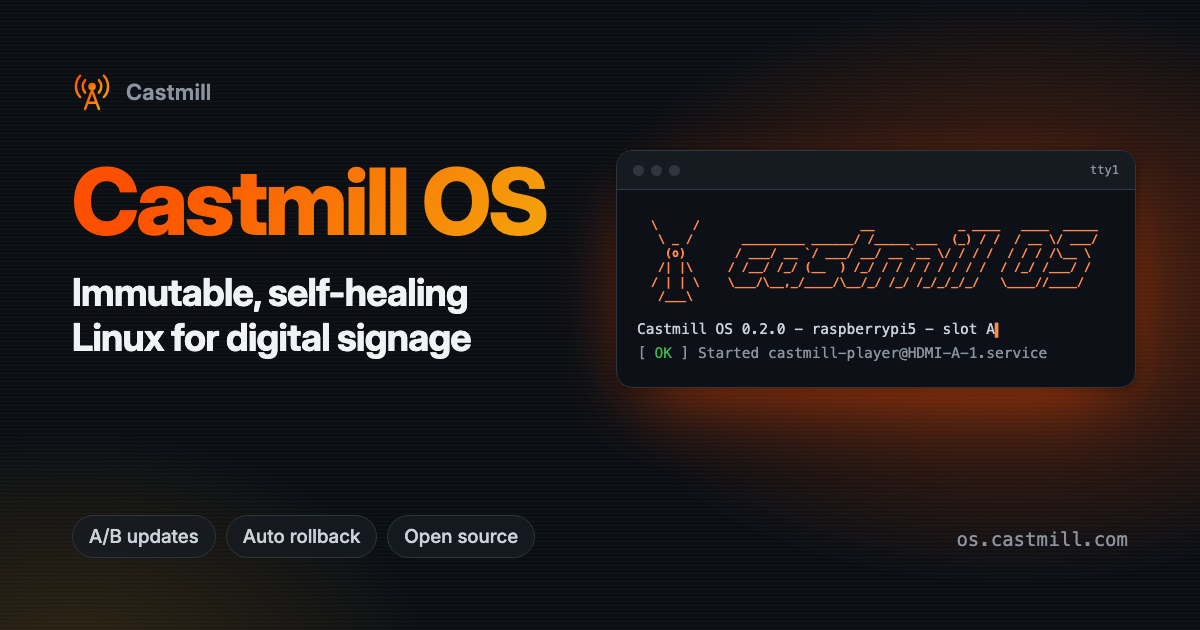
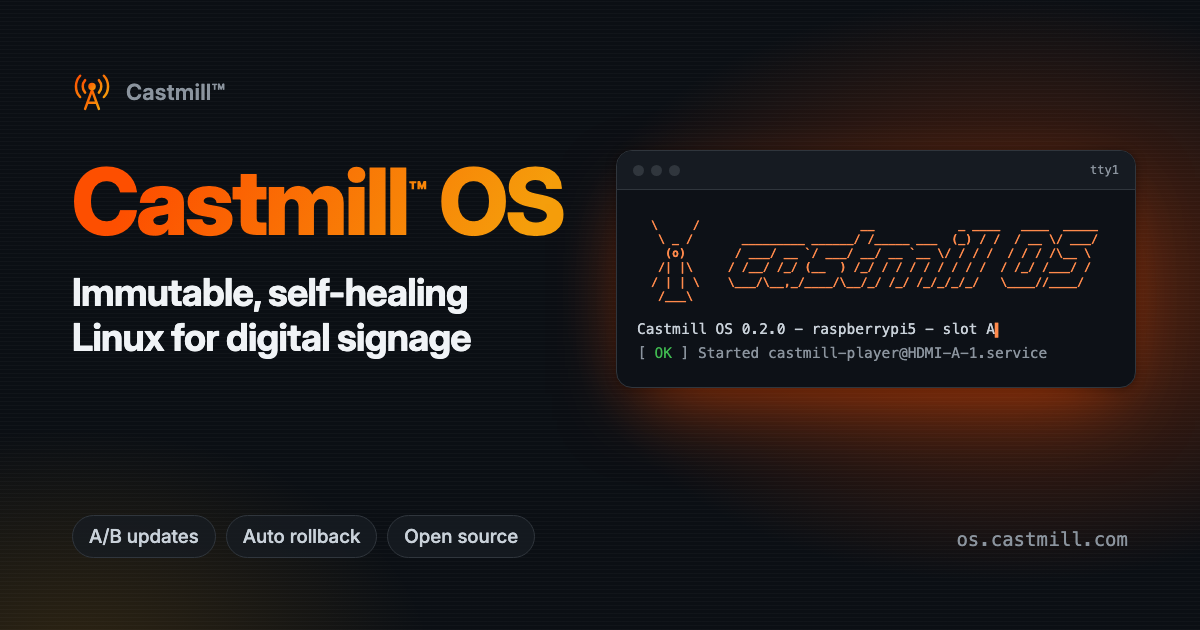
docs: mark Castmill as a trademark (™)
Castmill™ in the site title and hero, the README heading, the social
card and the device's status page, and a trademark notice in the site
footer. The ASCII console logo stays ASCII.

Changed region(s): [[0.3392, 0.2413, 0.4933, 0.3921]]

diff --git a/docs/.vitepress/social/cover.html b/docs/.vitepress/social/cover.html
@@ -121,12 +121,13 @@
   .info b { color: #ff8a4c; font-weight: 400; }
   .ok { padding: 2px 20px 26px; font-size: 14.5px; color: #8b949e; }
   .ok span { color: #3fb950; }
+  .tm { font-size: 0.32em; vertical-align: super; line-height: 0; margin-left: 0.05em; }
 </style>
 </head>
 <body>
   <div class="left">
-    <div class="brand"><img src="../../public/logo.svg" alt="">Castmill</div>
-    <h1>Castmill OS</h1>
+    <div class="brand"><img src="../../public/logo.svg" alt="">Castmill™</div>
+    <h1>Castmill<sup class="tm">™</sup> OS</h1>
     <p class="tagline">Immutable, self-healing<br>Linux for digital signage</p>
   </div>
 

diff --git a/docs/.vitepress/theme/custom.css b/docs/.vitepress/theme/custom.css
@@ -48,3 +48,12 @@ a.VPFeature:hover,
   display: block;
   overflow-x: auto;
 }
+
+/* Trademark sign after "Castmill" in large headings. */
+.tm {
+  font-size: 0.32em;
+  vertical-align: super;
+  line-height: 0;
+  margin-left: 0.04em;
+  -webkit-text-fill-color: currentColor;
+}

diff --git a/player/app/status.html b/player/app/status.html
@@ -8,7 +8,7 @@
 </head>
 <body>
 <main>
-  <div class="brand">Castmill OS</div>
+  <div class="brand">Castmill™ OS</div>
   <section id="message">
     <p id="headline" class="lead">Starting…</p>
     <p id="detail" class="detail"></p>

diff --git a/README.md b/README.md
@@ -1,4 +1,4 @@
-# Castmill OS
+# Castmill™ OS
 
 ```text
   \     /                       __            _ ____   ____  _____
@@ -181,6 +181,6 @@ Castmill OS uses permissive licenses so integrators and OEMs can adopt it easily
 - Castmill software running on the device (`agent/`, `player/`): [Apache-2.0](LICENSES/Apache-2.0.txt)
 - documentation and specifications: [CC BY 4.0](LICENSES/CC-BY-4.0.txt)
 
-Per-file licensing is declared in [`REUSE.toml`](REUSE.toml). Images also contain third-party packages under their own licenses; every release publishes the license manifest, SBOM and corresponding source. "Castmill" and the Castmill logo are trademarks and aren't covered by these licenses.
+Per-file licensing is declared in [`REUSE.toml`](REUSE.toml). Images also contain third-party packages under their own licenses; every release publishes the license manifest, SBOM and corresponding source. "Castmill™" and the Castmill logo are trademarks and aren't covered by these licenses.
 
 Contributions are welcome under the [DCO](CONTRIBUTING.md#developer-certificate-of-origin-dco); see [CONTRIBUTING.md](CONTRIBUTING.md).

diff --git a/docs/index.md b/docs/index.md
@@ -4,7 +4,7 @@ title: Castmill OS
 titleTemplate: Immutable Linux for digital signage
 
 hero:
-  name: Castmill OS
+  name: Castmill<sup class="tm">™</sup> OS
   text: The operating system your screens deserve
   tagline: Open source, immutable and self-healing Linux for digital signage. One signed image that updates itself safely and never needs a visit.
   actions:
